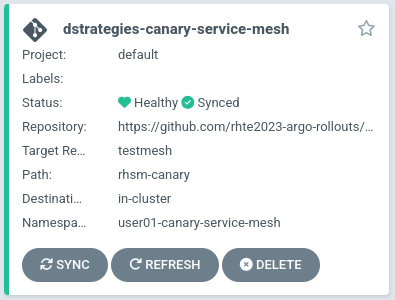
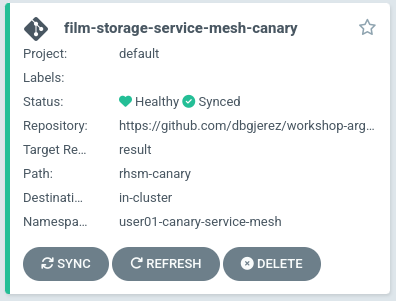
[CI] Publish Documentation for 437ff96cde3f5fa5fbcf389e661722a1ff487150 - 437ff96cde3f5fa5fbcf389e661722a1ff487150 🚀

diff --git a/workshop-argo-rollouts-doc/05-canary-deployment-service-mesh.html b/workshop-argo-rollouts-doc/05-canary-deployment-service-mesh.html
@@ -330,31 +330,10 @@
 <div class="paragraph">
 <p>To achieve the right percentage in each version, we are going to use traffic management with <strong>Openshift Service Mesh</strong></p>
 </div>
-<div class="paragraph">
-<p>Moreover, we have another huge improvement. The back application is sending metrics to Prometheus. We will configure <strong>Argo Rollouts</strong> to use those metrics to decide if keep increasing the amount of traffic to the new version or cancel the rollout.</p>
-</div>
-<div class="paragraph">
-<p>To get progressive delivery based on the Prometheus metrics. We have an AnalysisTemplate that fetches the metrics and decide if go on or cancel the rollout.</p>
-</div>
-<div class="listingblock">
-<div class="content">
-<pre class="highlightjs highlight"><code class="language-yaml hljs" data-lang="yaml">spec:
-  metrics:
-  - name: {{ include "service.name" . }}-prometheus-metric
-    interval: 10s
-    successCondition: len(result) == 0 || result[0] &gt;= 0.95
-    failureLimit: 2
-    provider:
-      prometheus:
-        address: <a href="https://internal:&lt;PROMETHEUS-PASSWORD&gt;@prometheus.istio-system.svc.cluster.local:9090" class="bare">https://internal:&lt;PROMETHEUS-PASSWORD&gt;@prometheus.istio-system.svc.cluster.local:9090</a>
-        query: |
-                    sum(irate( istio_requests_total{reporter="source",destination_service_name=~"dstrategies-back",response_code!~"5.*"}[30s] )) / sum(irate( istio_requests_total{reporter="source",destination_service_name=~"dstrategies-back"}[30s] ))</code></pre>
-</div>
-</div>
 </div>
 </div>
 <div class="sect1">
-<h2 id="05-arch"><a class="anchor" href="#05-arch"></a>Generate DStrategies APP GitOps Deployment Model</h2>
+<h2 id="05-arch"><a class="anchor" href="#05-arch"></a>Generate film-storage service mesh GitOps Application</h2>
 <div class="sectionbody">
 <div class="paragraph">
 <p>First of all, it is required to review a set of objects in our forked git repository to configure the deployment correctly for deploying our application following a GitOps model.</p>
@@ -368,7 +347,7 @@
 <p>We want you to define the steps to perform the canary deployment. You can choose the number of steps and the percentage of traffic. To learn more about <strong>Argo Rollouts</strong>, please read <a href="https://argoproj.github.io/argo-rollouts/features/canary/">this</a>.</p>
 </div>
 <div class="paragraph">
-<p>Please edit the file named <strong>./rhsm-canary/templates/dstrategies-back-rollout.yaml</strong> to define <strong>&lt;SET-STEPS&gt;</strong> as you want and understand the canary deployment strategy:</p>
+<p>Please edit the file named <strong>./rhsm-canary/templates/film-storage-back-rollout.yaml</strong> to define <strong>&lt;SET-STEPS&gt;</strong> as you want and understand the canary deployment strategy:</p>
 </div>
 <div class="listingblock">
 <div class="content">
@@ -396,30 +375,14 @@
 <div class="sect2">
 <h3 id="05-helm"><a class="anchor" href="#05-helm"></a>Modify Helm values</h3>
 <div class="paragraph">
-<p>It is required to create a <strong>Deployment</strong> object to deploy the frontend application. This application helps us to test the canary rollout strategy from a web interface and see backend information.</p>
-</div>
-<div class="paragraph">
-<p>To allow communication between the frontend and the backend, it is required to edit the file named <strong>./rhsm-canary/edit.values.yaml</strong> to add the required <strong>&lt;OCP_DOMAIN&gt;</strong>. You can check their values in the <a href="01-setup.html#01-parameters" class="xref page">parameters chapter</a>.</p>
+<p>It is required to edit the file named <strong>./rhsm-canary/edit.values.yaml</strong> to add the required <strong>&lt;OCP_DOMAIN&gt;</strong>. You can check their values in the <a href="01-setup.html#01-parameters" class="xref page">parameters chapter</a>.</p>
 </div>
 <div class="listingblock">
 <div class="content">
 <pre class="highlightjs highlight"><code class="language-yaml hljs" data-lang="yaml">service:
   image:
-    version: V1.0.0
+    version: 0.2
 domain: &lt;OCP_DOMAIN&gt;</code></pre>
-</div>
-</div>
-</div>
-<div class="sect2">
-<h3 id="05-prometheus"><a class="anchor" href="#05-prometheus"></a>Obtain Red Hat Service Mesh Prometheus Password</h3>
-<div class="paragraph">
-<p>Finally, we need the Service Mesh Prometheus password. To get it, review the parameters table provided by the instructor. Then it is required to edit the file named <strong>./rhsm-canary/templates/dstrategies-back-analysis-template.yaml</strong> to add the required <strong>&lt;PROMETHEUS-PASSWORD&gt;</strong>.</p>
-</div>
-<div class="listingblock">
-<div class="content">
-<pre class="highlightjs highlight"><code class="language-yaml hljs" data-lang="yaml">    provider:
-      prometheus:
-        address: <a href="https://internal:&lt;PROMETHEUS-PASSWORD&gt;@prometheus.istio-system.svc.cluster.local:9090" class="bare">https://internal:&lt;PROMETHEUS-PASSWORD&gt;@prometheus.istio-system.svc.cluster.local:9090</a></code></pre>
 </div>
 </div>
 </div>
@@ -431,7 +394,7 @@ domain: &lt;OCP_DOMAIN&gt;</code></pre>
 <div class="listingblock console-input">
 <div class="content">
 <pre class="highlightjs highlight"><code class="language-input hljs" data-lang="input">git add .
-git commit -m "Configured DStrategies App deployment files for canary with Service Mesh strategy"
+git commit -m "Configured film-storage App deployment files for canary with Service Mesh strategy"
 git push</code></pre>
 </div>
 </div>
@@ -442,7 +405,7 @@ git push</code></pre>
 <h2 id="05-deploy"><a class="anchor" href="#05-deploy"></a>Deploy Dstrategies Application</h2>
 <div class="sectionbody">
 <div class="paragraph">
-<p>We are going to create the application <strong>dstrategies</strong>, which we will use to test canary deployment with Service Mesh. Because we will make changes in the application&#8217;s GitHub repository, we have to use the repository that you have just forked. Please edit the following YAML and set your own GitHub repository in the <strong>reportURL</strong>. Create a file called <strong>application-dstrategies-canary-rhsm.yaml</strong></p>
+<p>We are going to create the application <strong>film-storage-service-mesh-canary</strong>, which we will use to test canary deployment with Service Mesh. Because we will make changes in the application&#8217;s GitHub repository, we have to use the repository that you have just forked. Please edit the following YAML and set your own GitHub repository in the <strong>repoURL</strong>.</p>
 </div>
 <div class="listingblock console-input">
 <div class="content">
@@ -458,7 +421,7 @@ spec:
     server: 'https://kubernetes.default.svc'
   source:
     path: rhsm-canary
-    repoURL: <a href="https://github.com/change_me/dstrategies-app-deployment" class="bare">https://github.com/change_me/dstrategies-app-deployment</a>
+    repoURL: <a href="https://github.com/change_me/workshop-argo-rollouts-resources" class="bare">https://github.com/change_me/workshop-argo-rollouts-resources</a>
     targetRevision: HEAD
     helm:
       valueFiles:
@@ -472,15 +435,15 @@ spec:
 </div>
 <div class="listingblock console-input">
 <div class="content">
-<pre class="highlightjs highlight"><code class="language-input hljs" data-lang="input">oc apply -f application-dstrategies-canary-rhsm.yaml</code></pre>
+<pre class="highlightjs highlight"><code class="language-input hljs" data-lang="input">oc apply -f argocd/film-storage-service-mesh-canary.yaml</code></pre>
 </div>
 </div>
 <div class="paragraph">
-<p>Looking at the Argo CD dashboard, you would notice that we have a new <strong>dstrategies</strong> application.</p>
+<p>Looking at the Argo CD dashboard, you would notice that we have a new <strong>film-storage-service-mesh-canary</strong> application.</p>
 </div>
 <div class="imageblock">
 <div class="content">
-<img src="_images/argocd_dstrategies-canary-service-mesh.png" alt="ArgoCD Dstrategies">
+<img src="_images/argocd_dstrategies-canary-service-mesh.png" alt="ArgoCD film-storage-service-mesh-canary">
 </div>
 </div>
 </div>
